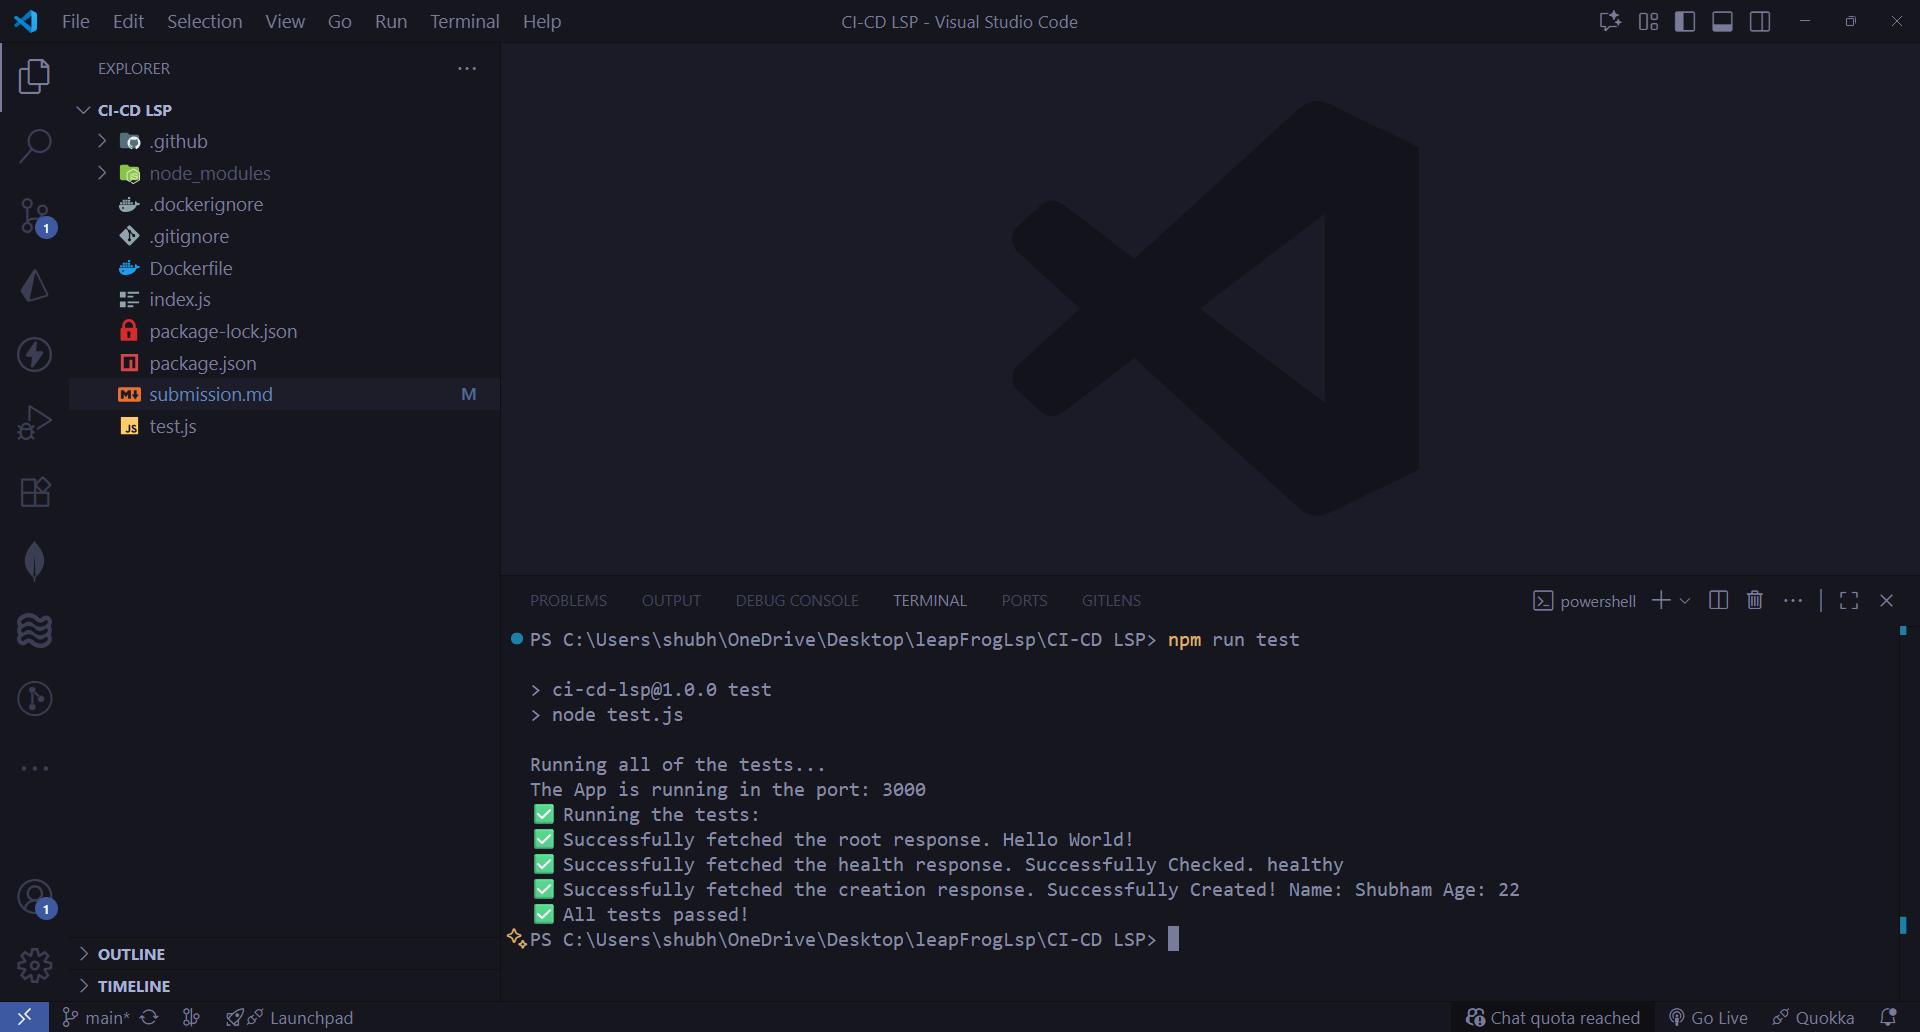
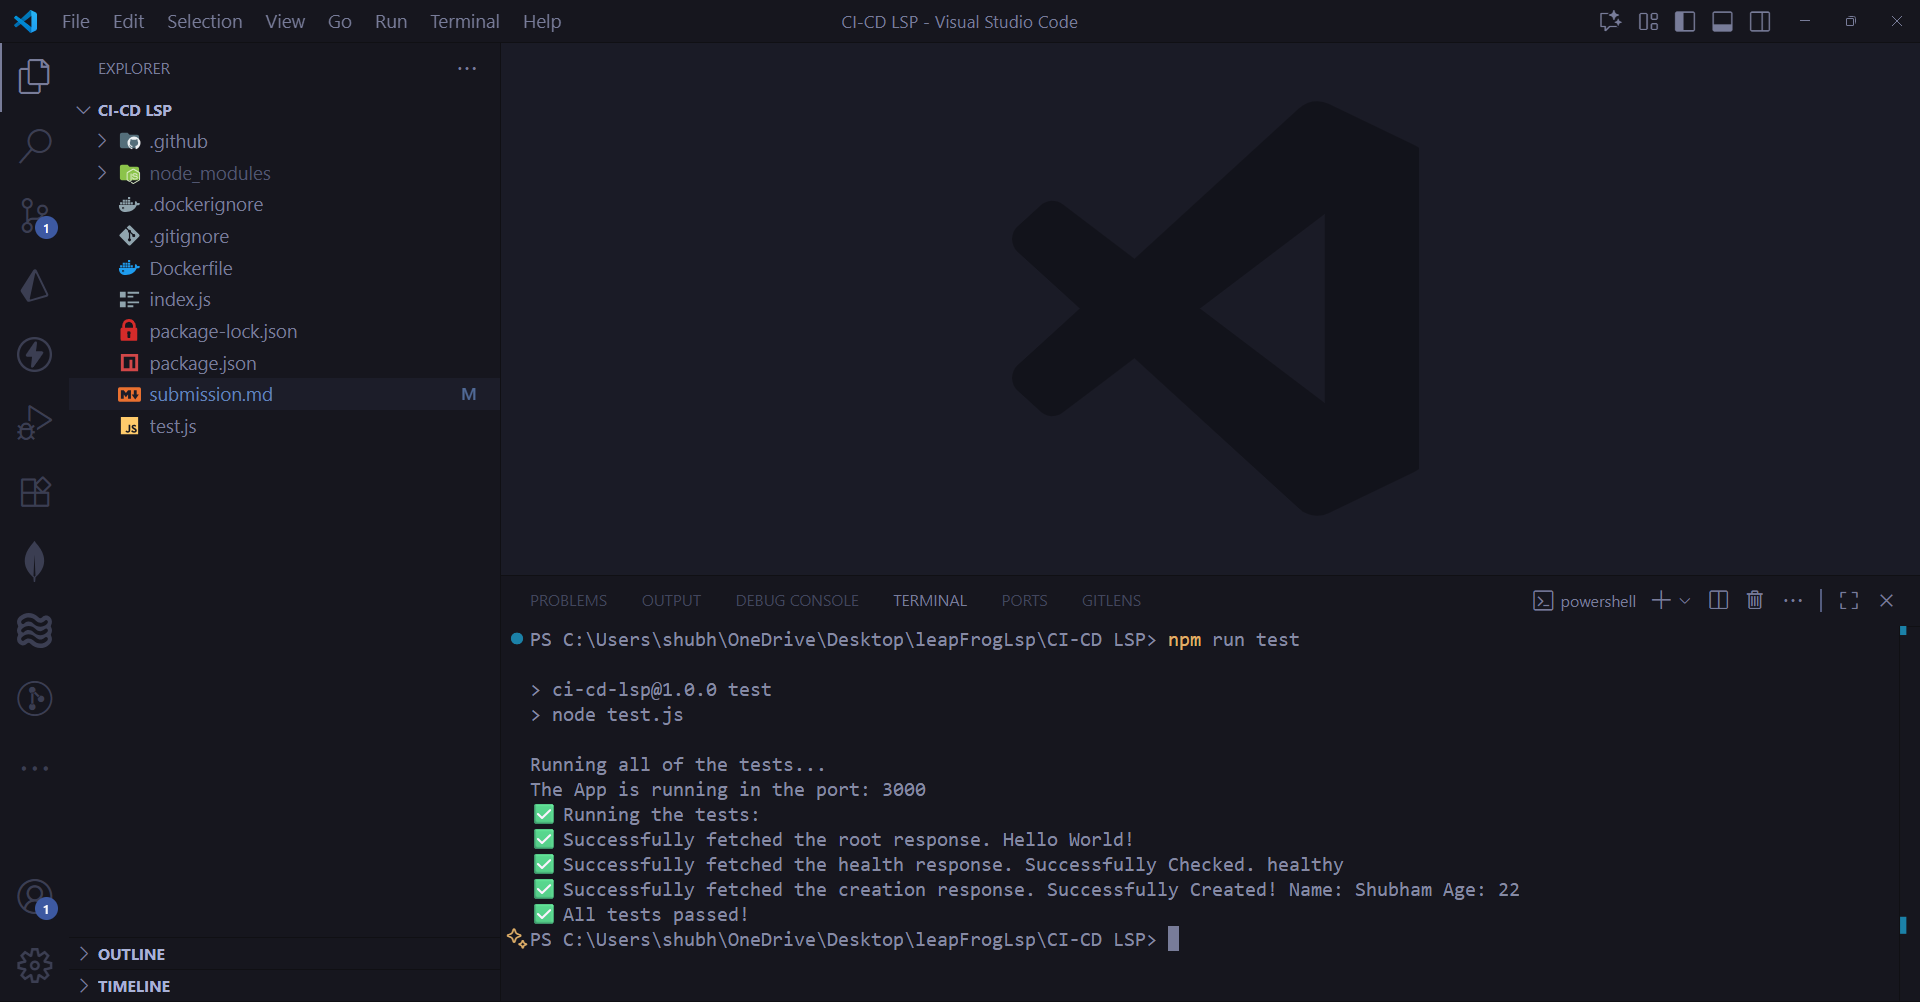
Added the new docker image log

diff --git a/submission.md b/submission.md
@@ -6,5 +6,7 @@
 - **Link of the GitHub Actions pipeline logs:** [https://github.com/Shubham-K77/CI-CD-LSP/actions/runs/18242560239](https://github.com/Shubham-K77/CI-CD-LSP/actions/runs/18242560239)
 - **Screenshot of the test file being executed:**  
   ![test file screenshot](./testLog.png)
+- **Screenshot of the docker image running on the device:**
+  ![docker file screenshot](./dockerLog.png)
 
 ---
